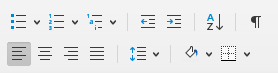
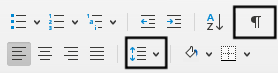
word

Changed region(s): [[0.8345, 0.0548, 1.0, 0.5479], [0.4317, 0.4932, 0.6043, 0.9589]]

diff --git a/word/index.md b/word/index.md
@@ -15,7 +15,9 @@ C'est aussi dans cette section que vous pourrez trouver les fonctionnalités "in
 
 ### Disposition
 ![Disposition](/word/disposition.png)
-La plupart des options de disposition du texte sont bien connues.
+La plupart des options de disposition du texte sont bien connues. J'ai pris la liberté d'enrectangler deux outils méconnus dans la section disposition. 
+- Celui de droite (le drôle de "P" inversé) sert à afficher les marques de mise en forme, c'est-à-dire : les espaces, les tabulations, les retours à la ligne, etc. Quand un document a une drôle de mise en page et que vous avez de la difficulté à déterminer pourquoi, cet outil vous sera souvent utile.
+- Celui du milieu en bas sert à déterminer l'espacement entre les lignes d'un paragraphe, mais aussi entre les paragraphes. Donc plutôt que deux de faire deux retours à la ligne pour insérer un espace entre deux paragraphes, il serait mieux de définir un espacement typique entre deux paragraphes et d'appliquer le style à tous le texte. Appuyez sur la petite flèche pour avoir toutes les options en ligne avec l'espacement.
 
 ### Styles
 ![Styles](/word/styles.png)
@@ -30,3 +32,16 @@ Pour intégrer les styles à votre quotidien il faut en comprendre deux aspects 
   - En créant un nouveau style : dans la barre de menu des styles, appuyez sur "Volet style" puis "Nouveau style". Suivez les instructions et appliquez le nouveau style à votre bloc de texte une fois que vous êtes satisfaits.
 
 Pour bien voir quels styles sont appliqués dans votre texte, vous pouvez cocher la case "Afficher les guides de style" en bas à gauche du menu "Volet styles".
+
+## Insertion
+
+## Dessin
+Très similaire à ce que avons déjà vu sur Powerpoint, la section dessin permet d'intégrer des contenus écrits à main levée. Encore une fois, sans outils destinés à cette fonction, cette section risque de donner de drôles de résultats.
+
+## Création
+
+### Thèmes
+Par rapport à la section création de Powerpoint, celle-ci est beaucoup plus satisfaisante et c'est en bonne partie parce que Word n'est pas un outil qui porte des projets qui demandent une grande créativité visuelle. En particulier pour la création de simples rapports, utiliser les styles simples et déjà bien agencés fournis par le logiciel devrait vous assurer un rendu visuel agréable. Étant donné que les thèmes proposés par Word ne font que modifier les styles qui sont appliqués dans le texte, une bonne stratégie peut être d'écrire l'entièreté du contenu, de s'assurer que les styles sont bien appliqués sur tous les blocs de texte et puis de simplement jouer avec les styles de l'onglet création jusqu'à ce que le résultat vous satisfasse.
+
+### Filigrane
+Une autre fonctionnalité intéressante du menu création : l'utilisation de filigrane. C'est la fonctionnalité qui permet par exemple au MI6 et à James Bond d'écrire "TOP SECRET" en _filigrane_ sur tous les documents qui lui sont remis. On écrit souvent "Brouillon" ou "Document de travail" avec cet outil.
